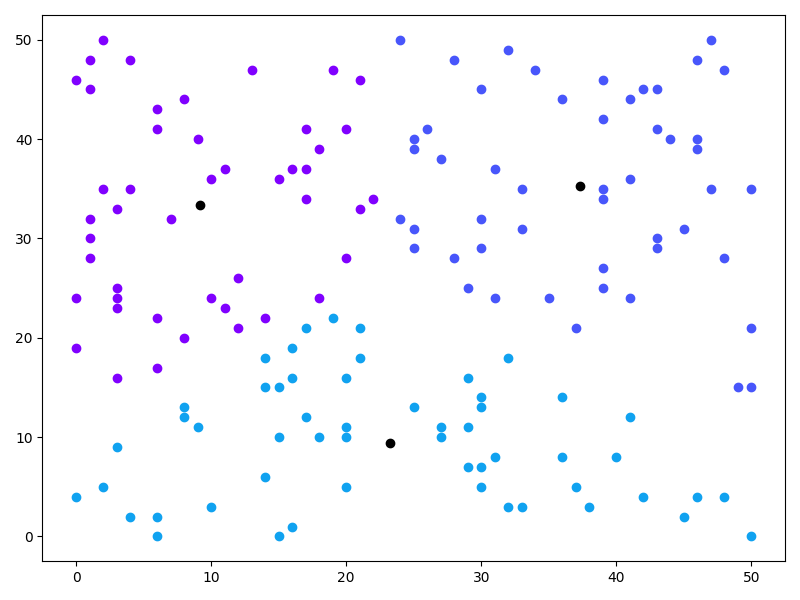
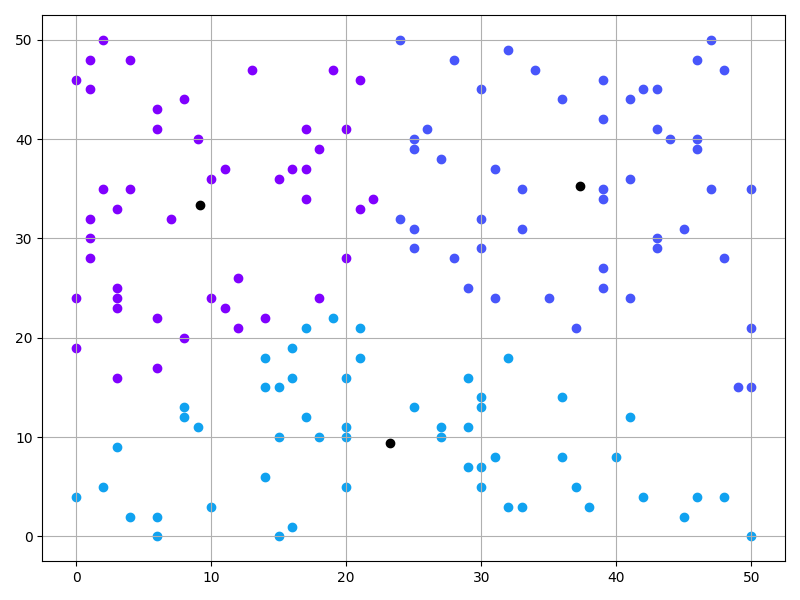
Fixed json output path

diff --git a/code/algoritmes/kmeans.py b/code/algoritmes/kmeans.py
@@ -12,19 +12,9 @@ def kmeans_alg(wijknummer):
     df = pd.read_csv(cwd + os.path.normpath(pad), usecols=['x', 'y'])
 
     k = range(2, 11)
-    # ssd = []
-    # score = []
-    #
-    # for i in k:
-    #     km = KMeans(n_clusters=i, n_init='auto', random_state=1).fit(df)
-    #     ssd.append(km.inertia_)
     plt.rcParams["figure.figsize"] = [8.00, 6.00]
     plt.rcParams["figure.autolayout"] = True
     plt.grid()
-    # print(ssd)
-    # print(score)
-    # plt.plot(k, ssd)
-    # plt.show()
 
     colors = cm.rainbow(np.linspace(0, 1, len(k) + 1))
     for i in k:
@@ -46,4 +36,8 @@ def kmeans_alg(wijknummer):
         # plt.show()
         plt.savefig(f"figures/kmeans{i}.png")
         plt.clf()
+        plt.rcParams["figure.figsize"] = [8.00, 6.00]
+        plt.rcParams["figure.autolayout"] = True
+        plt.grid()
+
 

diff --git a/code/klassen/district.py b/code/klassen/district.py
@@ -174,5 +174,5 @@ class District:
             batterij_data["houses"] = huizen
             json_dict.append(batterij_data)
             batterij_data = {}
-        with open("output.json", "w") as outfile:
+        with open("figures/output.json", "w") as outfile:
             json.dump(json_dict, outfile)
